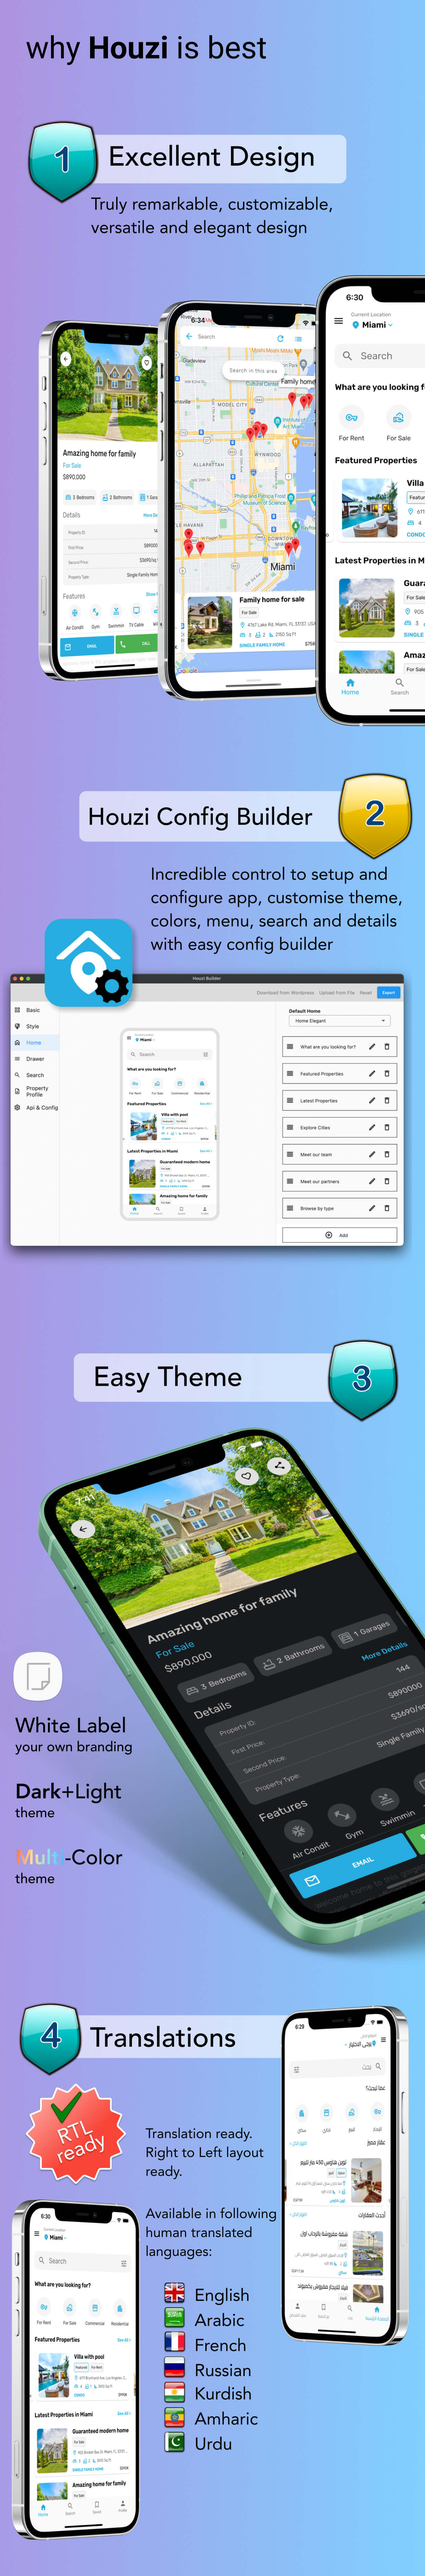
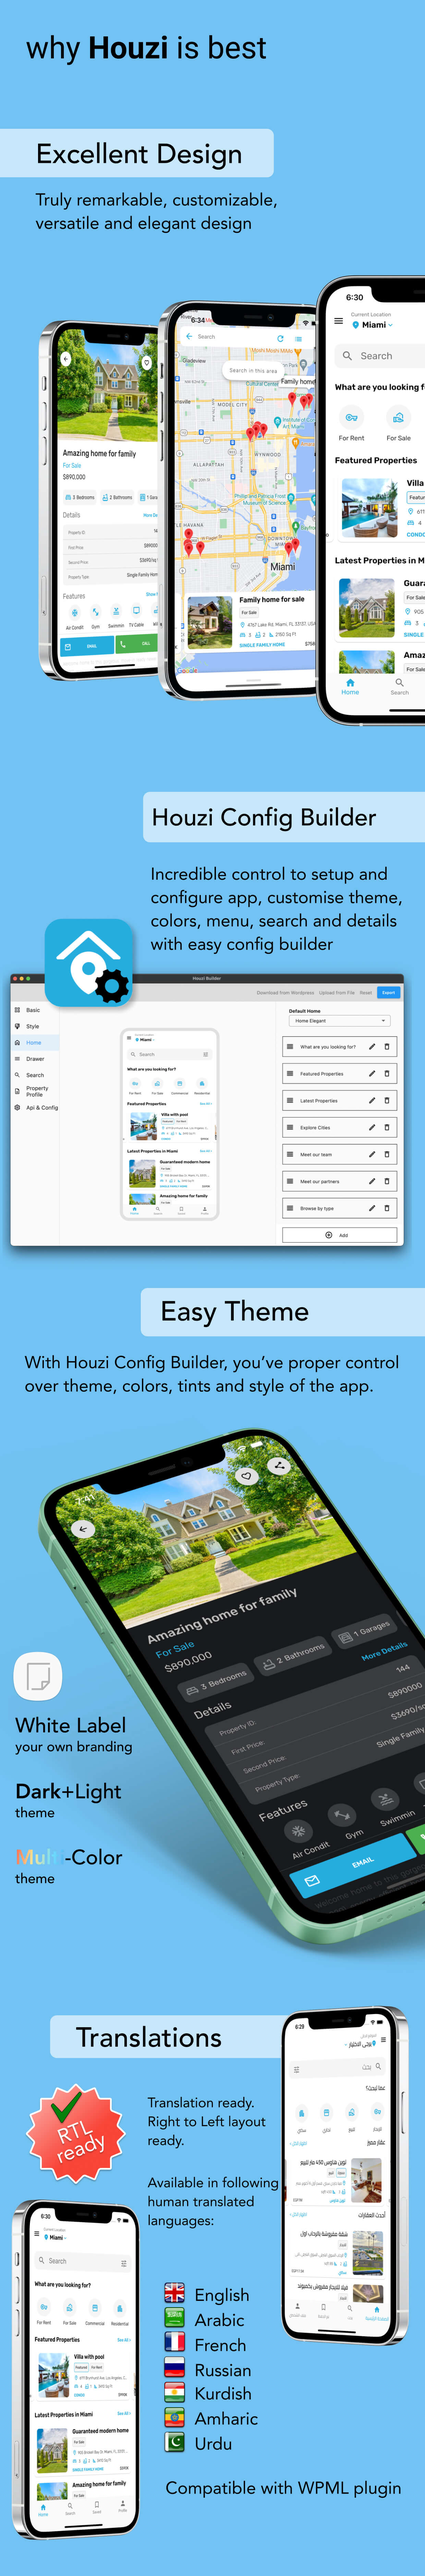
updated images for codecanyon

diff --git a/codecanyon.html b/codecanyon.html
@@ -1,1 +1,1 @@
-<p>Houzi real estate app is a full featured Flutter application to connect to your existing Houzez Wordpress Website.</p><p>Houzi is a professional app developed with keeping flexibility in mind. Houzi together with Houzez Wordpress website offers you full scaled real estate solution for web and mobile.</p><p>Checkout Houzi at GooglePlay and AppleStore.</p><ul><li>Android: https://play.google.com/store/apps/details?id=com.booleanbites.houzez </li><li>iOS: https://apps.apple.com/us/app/id1598357211 </li></ul><p><a><img src="https://raw.githubusercontent.com/AdilSoomro/houzi-app-for-houzez/master/assets/codecanyon/apple_store.png"></a> <a><img src="https://raw.githubusercontent.com/AdilSoomro/houzi-app-for-houzez/master/assets/codecanyon/google_play.png"></a></p><p><img src="https://raw.githubusercontent.com/AdilSoomro/houzi-app-for-houzez/master/assets/codecanyon/houzi_intro.jpg"><a href="https://houzez.co" target="_blank"><img src="https://raw.githubusercontent.com/AdilSoomro/houzi-app-for-houzez/master/assets/codecanyon/houzi_intro_for_houzez.jpg"></a><img src="https://raw.githubusercontent.com/AdilSoomro/houzi-app-for-houzez/master/assets/codecanyon/houzi_intro_1.jpg"><img src="https://raw.githubusercontent.com/AdilSoomro/houzi-app-for-houzez/master/assets/codecanyon/houzi_app_1.jpeg"><img src="https://raw.githubusercontent.com/AdilSoomro/houzi-app-for-houzez/master/assets/codecanyon/houzi_app_2.jpeg"><img src="https://raw.githubusercontent.com/AdilSoomro/houzi-app-for-houzez/master/assets/codecanyon/houzi_app_3.jpeg"></p><h2>App Features</h2><ul><li>Dynamic home sections with many item design</li><li>Advanced Search Filters</li><li>Custom Fields fully supported.</li><li>Comprehensive and dynamic property page</li><li>Property Images gallery</li><li>Agent and Agency list & profiles</li><li>Reviews for property & agencies</li><li>Favorite properties and Saved searches</li><li>GPS location + km range search</li><li>Schedule a visit with agent form</li><li>Property Inquiry and Contact form</li><li>Add property (quick and detailed) from app</li><li>CRM: Leads, Activity, Inquiries, Deals dashboard</li><li>Social login with facebook, google and apple</li><li>Admob integration ready</li><li>RTL supported, ready to translate.</li><li>Available in English, Arabic, Kurdish, French, Russian and Amharic</li></ul><h3>Powerful search and filters</h3><p>Houzi comes with advance search system with various modern features like geo location based radius search, city, area and type based searches. It contains advanced filter options based on prices, area size, bedrooms and bathrooms counts. Houzi supports dynamic custom fields, so any custom fields added on your Wordpress will reflect in the search via configuration.</p><h3>Multiple item designs for listing Result page</h3><p>Houzi comes with multiple pre-designed gorgeous result item that you can choose to show in list. Additionally, you can provide your own design via custom hooks developed specifically keeping flexibility in mind.</p><h3>Unlimited control over Property Detail page</h3><p>Information enriched, fully featured property details page contains every relevant modern details widgets. A page that consist of photos gallery, property features section, description, prices, agent or agency info, maps, ratings and reviews.</p><p>All sections in property details can be custom designed and updated via custom hooks.</p><h3>Flexible and Powerful Config Builder</h3><p>Houzi was developed with flexibility and customisability at its core. You have the full control over layout of home screens. You can change the search filters dynamically. You can customise the property details page seamlessly. Houzi Config Builder is powerful tool to fully control your app from comfort of your desktop. Config Builder is available for Mac and Windows.</p><h3>Social Logins</h3><p>You can let your users login beyond emails, that's via social logins. Houzi comes with facebook, Google and Apple logins already integrated in the code.</p><h3>Demo Apps</h3><p>Demo apps are available on GooglePlay and AppleStore.</p><p><a href="https://apps.apple.com/us/app/id1598357211" target="_blank"><img src="https://raw.githubusercontent.com/AdilSoomro/houzi-app-for-houzez/master/assets/codecanyon/apple_store.png"></a> <a href="https://play.google.com/store/apps/details?id=com.booleanbites.houzez" target="_blank"><img src="https://raw.githubusercontent.com/AdilSoomro/houzi-app-for-houzez/master/assets/codecanyon/google_play.png"></a></p>
+<p>Houzi real estate app is a full featured Flutter application to connect to your existing Houzez Wordpress Website.</p><p>Houzi is a professional app developed with keeping flexibility in mind. Houzi together with Houzez Wordpress website offers you full scaled real estate solution for web and mobile.</p><p>Checkout Houzi at GooglePlay and AppleStore.</p><ul><li>Android: https://play.google.com/store/apps/details?id=com.booleanbites.houzez </li><li>iOS: https://apps.apple.com/us/app/id1598357211 </li></ul><p><a><img src="https://raw.githubusercontent.com/AdilSoomro/houzi-app-for-houzez/master/assets/codecanyon/apple_store.png"></a> <a><img src="https://raw.githubusercontent.com/AdilSoomro/houzi-app-for-houzez/master/assets/codecanyon/google_play.png"></a></p><p><img src="https://raw.githubusercontent.com/AdilSoomro/houzi-app-for-houzez/master/assets/codecanyon/houzi_intro.jpeg"><a href="https://houzez.co" target="_blank"><img src="https://raw.githubusercontent.com/AdilSoomro/houzi-app-for-houzez/master/assets/codecanyon/houzi_intro_for_houzez.jpeg"></a><img src="https://raw.githubusercontent.com/AdilSoomro/houzi-app-for-houzez/master/assets/codecanyon/houzi_intro_1.jpeg"><img src="https://raw.githubusercontent.com/AdilSoomro/houzi-app-for-houzez/master/assets/codecanyon/houzi_app_1.jpeg"><img src="https://raw.githubusercontent.com/AdilSoomro/houzi-app-for-houzez/master/assets/codecanyon/houzi_app_2.jpeg"><img src="https://raw.githubusercontent.com/AdilSoomro/houzi-app-for-houzez/master/assets/codecanyon/houzi_app_3.jpeg"><img src="https://raw.githubusercontent.com/AdilSoomro/houzi-app-for-houzez/master/assets/codecanyon/houzi_app_4.jpeg"></p><h2>App Features</h2><ul><li>Dynamic home sections with many item design</li><li>Advanced Search Filters</li><li>Custom Fields fully supported.</li><li>Comprehensive and dynamic property page</li><li>Property Images gallery</li><li>Agent and Agency list & profiles</li><li>Reviews for property & agencies</li><li>Favorite properties and Saved searches</li><li>GPS location + km range search</li><li>Schedule a visit with agent form</li><li>Property Inquiry and Contact form</li><li>Add property (quick and detailed) from app</li><li>CRM: Leads, Activity, Inquiries, Deals dashboard</li><li>Social login with facebook, google and apple</li><li>Admob integration ready</li><li>RTL supported, ready to translate.</li><li>Available in English, Arabic, Kurdish, French, Russian and Amharic</li></ul><h3>Powerful search and filters</h3><p>Houzi comes with advance search system with various modern features like geo location based radius search, city, area and type based searches. It contains advanced filter options based on prices, area size, bedrooms and bathrooms counts. Houzi supports dynamic custom fields, so any custom fields added on your Wordpress will reflect in the search via configuration.</p><h3>Multiple item designs for listing Result page</h3><p>Houzi comes with multiple pre-designed gorgeous result item that you can choose to show in list. Additionally, you can provide your own design via custom hooks developed specifically keeping flexibility in mind.</p><h3>Unlimited control over Property Detail page</h3><p>Information enriched, fully featured property details page contains every relevant modern details widgets. A page that consist of photos gallery, property features section, description, prices, agent or agency info, maps, ratings and reviews.</p><p>All sections in property details can be custom designed and updated via custom hooks.</p><h3>Flexible and Powerful Config Builder</h3><p>Houzi was developed with flexibility and customisability at its core. You have the full control over layout of home screens. You can change the search filters dynamically. You can customise the property details page seamlessly. Houzi Config Builder is powerful tool to fully control your app from comfort of your desktop. Config Builder is available for Mac and Windows.</p><h3>Social Logins</h3><p>You can let your users login beyond emails, that's via social logins. Houzi comes with facebook, Google and Apple logins already integrated in the code.</p><h3>Demo Apps</h3><p>Demo apps are available on GooglePlay and AppleStore.</p><p><a href="https://apps.apple.com/us/app/id1598357211" target="_blank"><img src="https://raw.githubusercontent.com/AdilSoomro/houzi-app-for-houzez/master/assets/codecanyon/apple_store.png"></a> <a href="https://play.google.com/store/apps/details?id=com.booleanbites.houzez" target="_blank"><img src="https://raw.githubusercontent.com/AdilSoomro/houzi-app-for-houzez/master/assets/codecanyon/google_play.png"></a></p>
